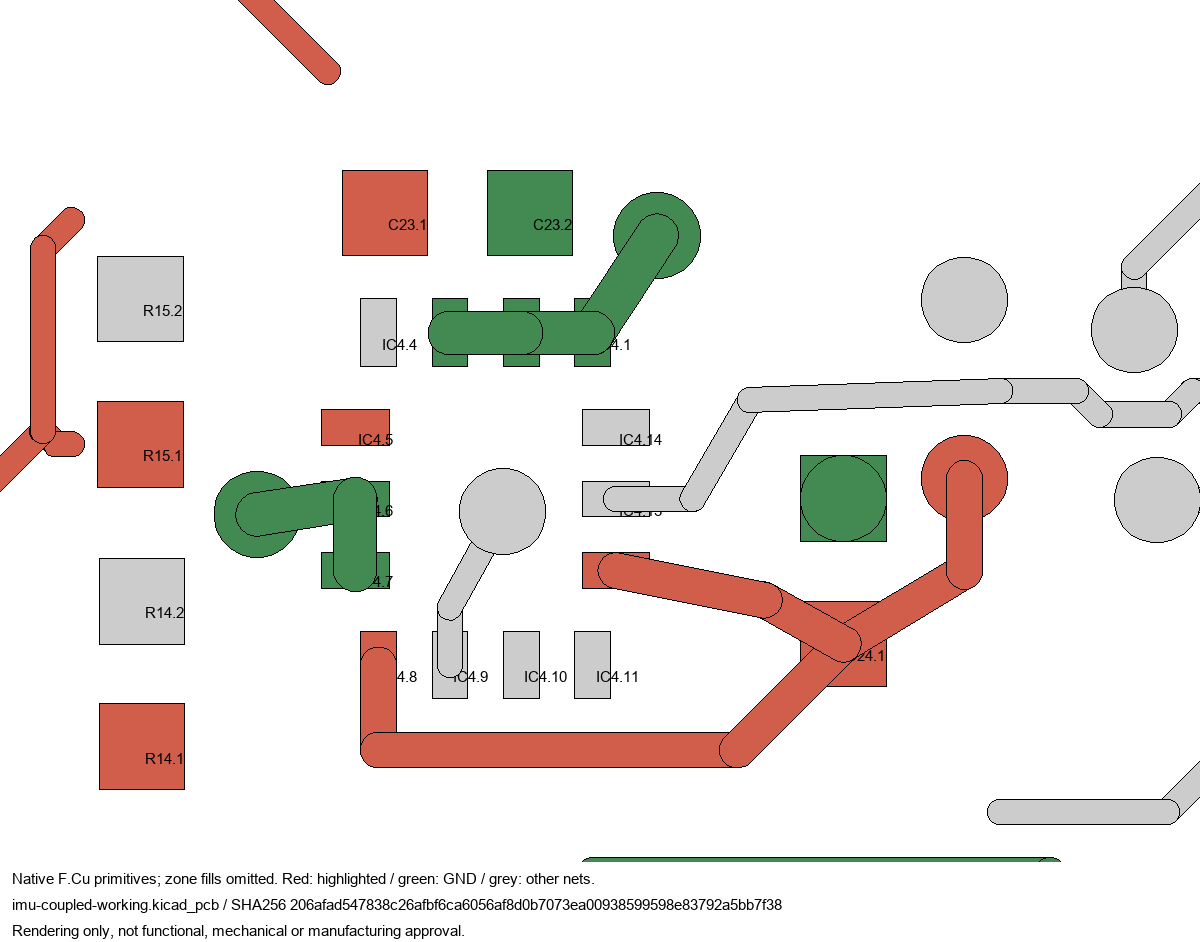
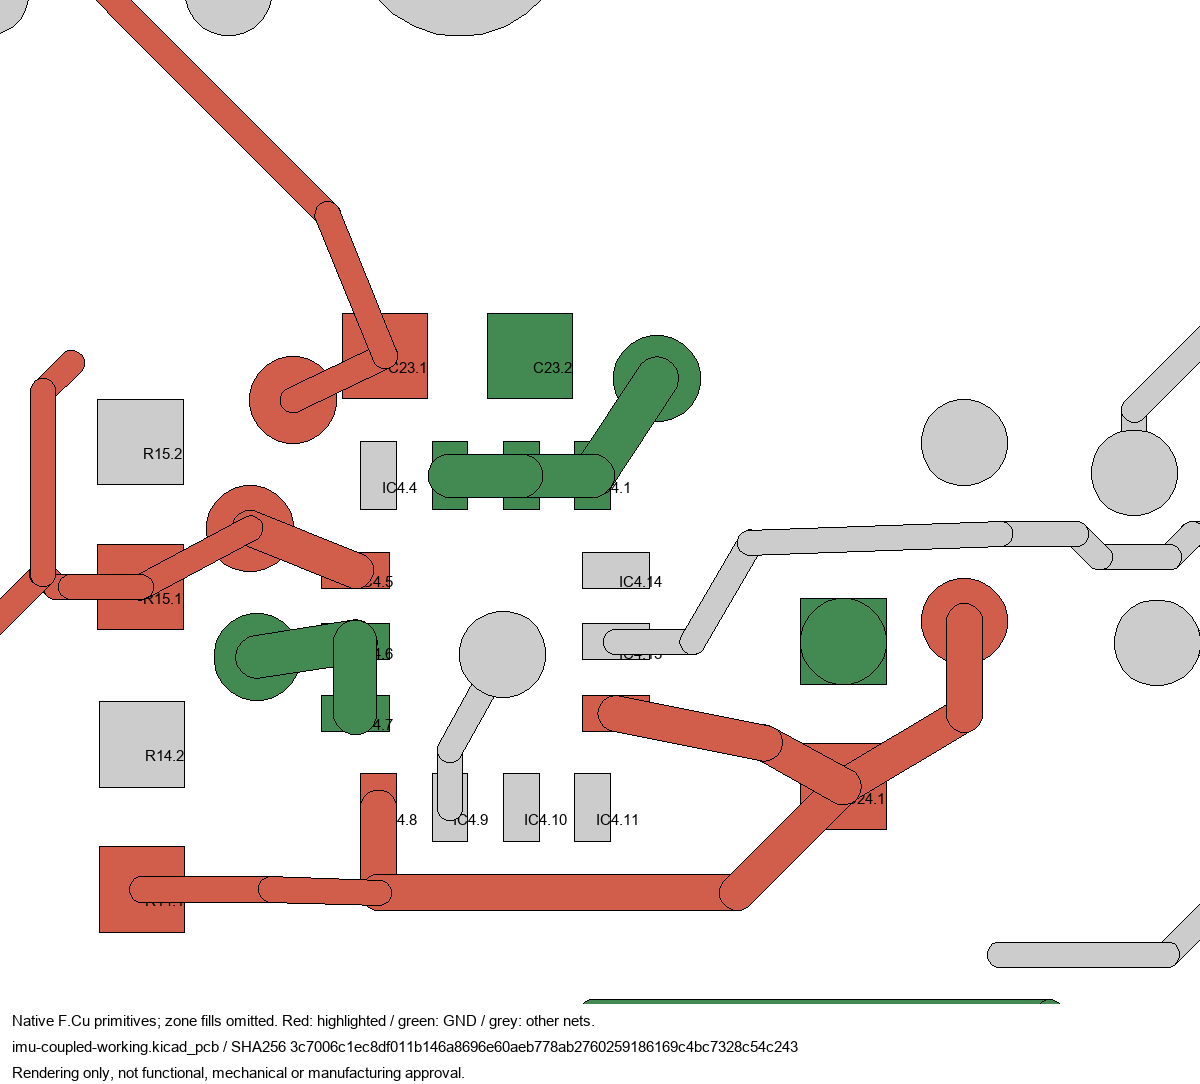
Preserve repaired supply tree and release coupled IMU signal plan

diff --git a/docs/pcb-closure-plan.md b/docs/pcb-closure-plan.md
@@ -166,7 +166,41 @@ primitive proof and ERC after byte comparisons, rather than rerunning them;
 
 ## Owner pause and next item
 
-**Supply connectivity constructed, but one ordinary via is held for repair.**
+**Ordinary VDDIO repair passed; complete local supply connectivity retained.**
+The [four-item repair](../hardware/handbell/iterations/printed-bell-four-layer/reports/imu-vddio-via-repair.json)
+moves the held via to `(87.85,92.7)` without a via-in-pad dependency.
+All supply pads/exterior groups, earlier signal paths and five ground straps
+remain connected primitively, with zero shorts. Working PCB
[1 lines of base64/hex data omitted]
+and matching manifest
[1 lines of base64/hex data omitted]
+replace the prior recovery pair. They remain unfilled and unaccepted.
+
+**Next: coupled SCL/SDA/INT completion using the explicit
+[engineering seed plan](../hardware/handbell/iterations/printed-bell-four-layer/reports/imu-signal-closure-plan.json).**
+It keeps IC4/C23/C24/R14 fixed at their working poses, moves only R15 north
+0.50 mm, and reallocates tentative local transitions to make room for all
+three signal duties together. No coordinates are clearance waivers.
+
+Two new transition sites are proposed above the retained upper B conductor.
+Native source inspection identifies that conductor (`4ef0b7ff...`) as
+`Net-(L0-PadA)`, the LED branch, not a clock as the earlier site report said.
+Its physical obstruction remains real and its copper stays fixed. Release
+new copper only in the additional upper corridor x86.6..93.1, y89.2..90.5;
+no unrelated routing or components there may change. A named clipped +3V3
+dead-end stub may be removed only after an actual cut proof establishes no
+lost pad-group connectivity, allowing the R15 move without pretending a
+temporary clipping point is a permanent functional interface.
+
+The Mode-1 GND straps may return through an explicit F link to C23.2,
+freeing their tentative via site for SDA. MAIN attachment must then be
+reproved by refill, not assumed from the original C23 acceptance. The plan
+preserves the restored VDD/CS/INT2 paths, power trunk, ordinary-via process
+rules and all other outside geometry. Run a simultaneous native screen and
+save the actual evolving candidate with matching manifest. One 15-minute
+item and at most two local corrections; full acceptance/CAD gates remain.
+
+**Earlier supply candidate -- held pending the now-completed via repair.**
 The [supply-tree report](../hardware/handbell/iterations/printed-bell-four-layer/reports/imu-supply-tree.json)
[2 lines of base64/hex data omitted]

diff --git a/hardware/handbell/iterations/printed-bell-four-layer/README.md b/hardware/handbell/iterations/printed-bell-four-layer/README.md
@@ -26,11 +26,13 @@ Continue only through the [current closure handoff](../../../../docs/pcb-closure
 
 The subsequent [working PCB](reports/imu-coupled-working.kicad_pcb) and
 [working manifest](reports/imu-coupled-working-manifest.json) now preserve
-all five ground straps, the VDD/CS/C24 supply tree and INT2-to-TP6 routing.
-Their [latest partial report](reports/imu-vdd-int2-routing.json) and native
+all five ground straps, all local supply duties and INT2-to-TP6 routing.
+The [ordinary-via repair](reports/imu-vddio-via-repair.json) closes the
+same-net pad-overlap process finding without adding a via-in-pad dependency.
+Their native
 [front](reports/imu-working-front.png)/[inner](reports/imu-working-inner.png)
 views are source-bound, not complete group/plane or source/DRC qualification.
-VDDIO/C23, pullups, exterior supply duties, SDA and INT remain open.
+SCL pullup, SDA and INT routing remain open, as do refill and acceptance gates.
 Earlier working versions/reports are historical; the handoff records the
 precise current evidence limits and remaining replacement duties.
 

diff --git a/AGENTS.md b/AGENTS.md
@@ -8,9 +8,9 @@
   not the exhausted shifted-pad-tail method. A real local rip-up fixture
   and replacement SCL escape now pass source-invariant qualification.
   The evolving private candidate now straps all five IMU ground pads and
-  restores VDD/CS/C24 plus INT2-to-TP6. MAIN-plane attachment remains
-  unproved. Finish the branched VDDIO feed without repeating the timed-out
-  per-site native search unchanged; exact scope
+  restores all local supply duties plus INT2-to-TP6. The held ordinary via
+  has been repaired; MAIN-plane attachment remains unproved. Complete
+  SCL/SDA/INT using the explicit coupled signal seed plan; exact scope
   is in `docs/pcb-closure-plan.md#owner-pause-and-next-item`.
   A private working copy may be temporarily disconnected during explicitly
   authorized rework; the accepted 41-open package must stay untouched.
